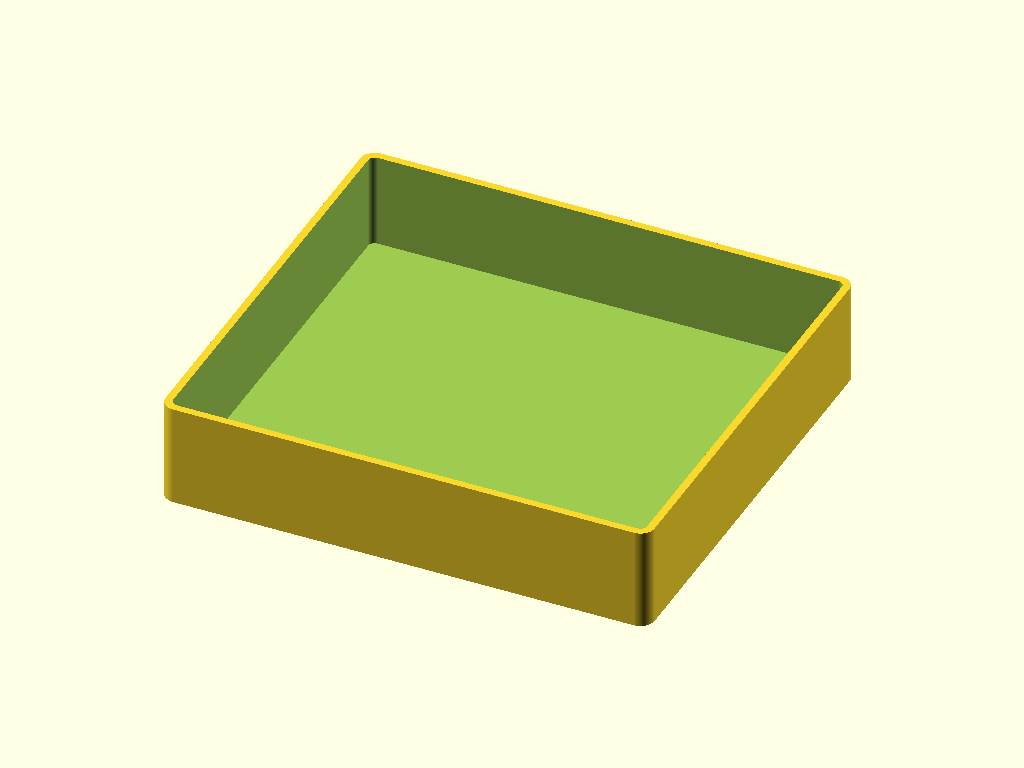
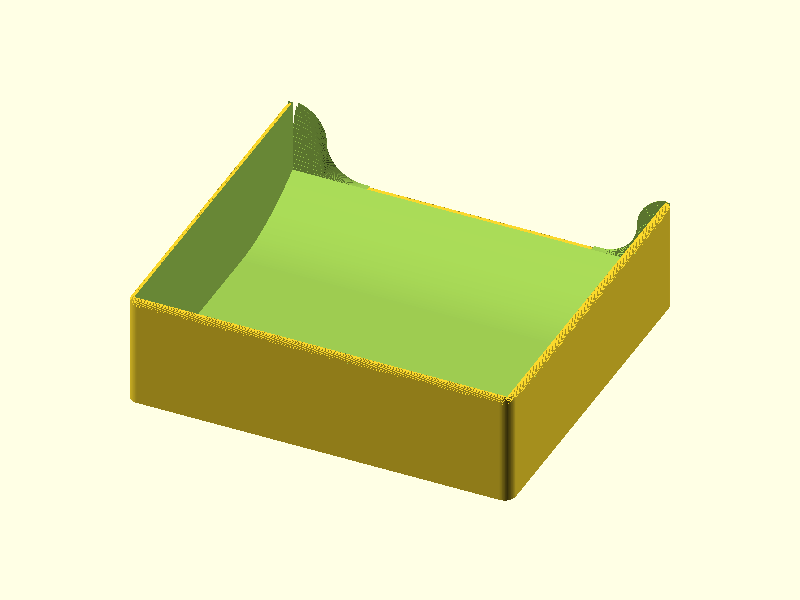
docs: ptouch-cradle v9+v10 — S-curve, 3D corner blend, r=wall_t cap
Doc updates to reflect the round-7 patch v9+v10 changes (commits
ea92875 → 4cece6e → 3601789):

- Tray render captions: r=20 single arc → S-curve (2× r=10 quarter
  arcs, tangent-continuous at both ends); top-edge fillet r=2 →
  r=1.6 (= wall_t, aligned with cradle's r=3 = its wall_t).
- ASCII assembly diagram updated for the new fillet schedule.
- Spec table row updated for the side-to-front fillet.
- Features section rewritten for the S-curve sweep + 3D corner
  blend (16-slab Y-stack interpolating inner z=10 → outer arc(x))
  and the r=wall_t cap with cradle-alignment rationale.
- Printability table updated: thin-wall row reframed as accepted
  cosmetic tradeoff (26 sub-mm slivers near corner peaks, slicer
  truncates as soft fades). Bridges row updated. Overhangs row
  updated (sloped wall top is 4.6° from horizontal, face-up).
- Geometry analysis paragraph rewritten for v10's known tradeoff.
- Slicer checklist item 3 updated.
- Print Settings supports row updated.
- Design Log: added v3-patch-v8 (corner tabs + slivers, commit
  4cece6e) and v3-patch-v9+v10 (S-curve + r=wall_t cap, commit
  3601789) entries with full geometric detail.
- Downloads: added modeler-notes-v9.md and v10.md links.
- Pipeline row: model agent now lists 7 rounds + 3 patches.
- README cradle-row description updated to mention S-curve sweeps,
  r=wall_t fillet alignment, and 2 test prints.

Re-staged tray PNG renders to docs/images/ptouch-cradle/ for the
[…]

Changed region(s): [[0.1562, 0.15, 0.8438, 0.84], [0.7188, 0.54, 0.8125, 0.69]]

diff --git a/docs/ptouch-cradle.md b/docs/ptouch-cradle.md
@@ -25,11 +25,11 @@ Quiet desk dock and label catch tray for the Brother PT-P750W label printer. Cle
 
 ### Tray — bare part
 
-![Front elevation of the catch tray showing the uniform 10mm low front wall, concave r=20 side fillet sweeps from the 30mm side walls down to the 10mm front wall, and the clean horizontal grab lip across the full width.](images/ptouch-cradle/tray-user-front.png)
-*Tray front elevation — uniform 10mm front wall, r=20 concave side fillets sweeping from side-wall top (z=30) to front-wall top (z=10). User reaches over the full-width low lip to retrieve labels.*
+![Front elevation of the catch tray showing the uniform 10mm low front wall, S-curve side fillet sweeps from the 30mm side walls down to the 10mm front wall, and the clean horizontal grab lip across the full width.](images/ptouch-cradle/tray-user-front.png)
+*Tray front elevation — uniform 10mm front wall with S-curve sweeps on each corner. Two tangent-continuous quarter-arcs (r=10 each) join at an inflection point — horizontal tangent at both ends so the curve blends without a kink against either the side-wall top or the front-wall flat top.*
 
-![Three-quarter view of the catch tray showing the back/side walls at full 30mm height, the concave side fillet scoops on each front corner, and the proportional form language matching the cradle.](images/ptouch-cradle/tray-user-front-threequarter.png)
-*Tray three-quarter — 30mm back/side walls, r=20 concave corner scoops, and r=2 top-edge fillet on back/sides (r=0.8 on front wall — restricted by 1.6mm wall thickness).*
+![Three-quarter view of the catch tray showing the back/side walls at full 30mm height, the S-curve corner sweeps, and the rolled top-edge fillet matching the cradle's design proportion.](images/ptouch-cradle/tray-user-front-threequarter.png)
+*Tray three-quarter — 30mm back/side walls, S-curve corner sweeps with 3D corner blend (outer face follows the curve up to z=30, inner face stays uniform at z=10 across full width — clean kanban lip from inside the bin). Top-edge fillet r=1.6 = wall_t (matches cradle's r=3 = its wall_t — same design proportion).*
 
 ## Design Overview
 
@@ -51,14 +51,14 @@ Two parts that assemble without fasteners or adhesive. The tray slides forward o
 
 TRAY (103.2 × 94.2 × 30mm, protrudes ~9mm above cradle wall):
 
-   ┌──────────────────────────┐  z=30mm back/side wall top (r=2 fillet)
+   ┌──────────────────────────┐  z=30mm back/side wall top (r=1.6 = wall_t fillet)
    │      ← 100mm →           │
    │      open top            │
    │      interior            │  1.6mm walls
    │                          │  1.6mm floor
    │  parabolic ramp at front │
    ╲──────────────────────────╱  z=10mm front wall top (r=0.8 fillet)
-    r=20 concave scoops both sides
+    S-curve sweeps both sides (2× r=10 quarter-arcs, tangent-continuous at both ends)
 ```
 
 **Install sequence:**
@@ -88,7 +88,7 @@ No chamfers anywhere. No decoration of any kind.
 | Cradle volume | ~136.6 cm³ | Mesh analysis |
 | Tray bounding box | 103.2 × 94.2 × 30mm | 5mm above 25mm cradle wall by design |
 | Tray front wall height | 10mm | Uniform across full width |
-| Tray side-to-front fillet | r=20 concave | Single quarter-arc per side, no intermediate sections |
+| Tray side-to-front fillet | S-curve, 2× r=10 quarter-arcs | Tangent-continuous at both ends (horizontal tangent at z=30 AND z=10) — joined at inflection point (10, 20). Outer face follows the curve; inner face stays at z=10 across full width via 16-slab Y-stack 3D corner blend. |
 | Tray interior ramp | parabolic z(y) = 1.6 + 8.4·((y−62.6)/30)² | Tangent to floor at back, terminates at z=10 at front |
 | Tray volume | ~38.9 cm³ | Mesh analysis |
 | Combined volume | ~175.5 cm³ | |
@@ -113,9 +113,9 @@ No chamfers anywhere. No decoration of any kind.
 
 **Uniform 10mm front wall** — Flat at z=10 across the full width. The grab feature: user reaches over anywhere along the width. Tray interior cavity accessible above the 10mm front lip.
 
-**r=20 concave side fillet sweeps** — ONE quarter-arc per side (r=20, matching the 20mm height drop from z=30 to z=10). Sweeps continuously from side-wall top down to front-wall top. Single curve, single radius — no intermediate flat sections, no transition arcs, no sharp corner intersections.
+**S-curve side fillet sweeps** — TWO tangent-continuous quarter-arcs per side (r=10 each, total horizontal extent 20mm matching the 20mm height drop from z=30 to z=10). Joined at an inflection point with vertical tangent. Horizontal tangent at z=30 (matches side-wall top) AND horizontal tangent at z=10 (matches front-wall flat top) — no kink at either end. Outer face follows the S-curve; inner face stays uniform at z=10 across the full width via a 16-slab Y-stack that linearly interpolates between OUTER and INNER profiles. The wall top in the corner zones slopes from z=10 (inner) to arc(x) (outer) over the 1.6mm wall depth — reads as a 3D corner blend, not a 2D extrusion.
 
-**Top-edge fillets** — r=2 continuous fillet on back and side wall tops (z=30), rolled inward via slab stack. r=0.8 fillet on front wall top (z=10) — smaller because the 1.6mm front wall is too thin for r=2 without offset collapse. Both fillet radii are engineered deviations with documented rationale.
+**Top-edge fillets** — r=1.6 = wall_t continuous fillet on back and side wall tops (z=30). The cap rolls cleanly from the outer face to a point at the inner face — same construction principle as the cradle's r=3 = its wall_t. Same design proportion across the assembly, different absolute radii because the walls differ (cradle 3mm, tray 1.6mm). r=0.8 fillet on front wall top (z=10) — half wall_t for the thin front lip, keeps it soft without competing with the larger back/sides cap.
 
 **Interior parabolic floor ramp** — z(y) = 1.6 + 8.4 · ((y − 62.6) / 30)². Tangent to the flat floor at the back (slope=0 at y=62.6), steepens toward the front, terminates at z=10 at the front wall interior face. Concave from cavity side — a finger sliding forward gets a smooth gradual incline. Self-supporting in face-up print orientation (always slopes up-and-forward, never overhangs).
 
@@ -140,24 +140,24 @@ Both parts pass all printability checks. Zero real bridge spans in either part. 
 | Transitions (cradle) | 4/4 PASS | Base→wall (z=4mm): false-positive flag from analyzer measuring open pocket void |
 | Transitions (tray) | 4/4 PASS | Floor, walls, front-wall terminus, top fillets |
 | Overhangs (cradle) | PASS | Vertical walls throughout; flush base; no overhangs above z=0 |
-| Overhangs (tray) | PASS (marginal at r=20 fillet tip) | z=24–30mm fillet corner technically >45° but backed by side-wall material; cosmetic quality impact only |
+| Overhangs (tray) | PASS — sloped wall top is face-up | The 3D corner blend's wall-top slope is 4.6° from horizontal (well below 45° max); prints face-up cleanly |
 | Bridges (cradle) | PASS | 3 analyzer flags are false positives (open pocket voids) |
-| Bridges (tray) | PASS | Max span 1.21mm — ramp arc-sampling artifacts, not real bridges |
-| Thin walls | PASS (1 marginal) | Tray r=20 fillet corner: 1.026mm minimum at z=10–26mm — geometric artifact backed by full side-wall material |
+| Bridges (tray) | PASS | 1 false-positive flag from the trimesh bridge detector confused by the corner-column slope; visually inspected, no real unsupported bridges |
+| Thin walls | ACCEPTED TRADEOFF | 26 sub-mm slivers near the corner-column outer-edge peaks (z>22mm) and at the cap apex (z>29mm). Geometrically forced at wall_t=1.6mm — the 3D corner blend's outer face rises to z=30 while the inner stays at z=10, producing sub-mm cross-sections near the peak. Slicer prints these as a soft fade (1–2 perimeter taper) rather than sharp peaks; cosmetic effect only, not structural. |
 | Slicer | N/A | PrusaSlicer not installed |
 
 ### Geometry Analysis
 
 Cradle: 125 layers at 0.2mm, watertight, all transitions PASS. Tray: 150 layers, watertight. All bridge FAIL flags in both parts are false positives from the cross-section analyzer measuring across intentionally open pockets or arc-sampling artifacts on curved surfaces.
 
-**One marginal finding:** the r=20 concave fillet corner on the tray measures 1.026–1.194mm wall thickness at z=10–26mm — below the 1.2mm nominal spec. Root cause: geometric artifact of the angled fillet intersection at the outer corner. The continuous 1.6mm side wall provides full backing; the slicer will generate 2–3 perimeters in this zone. Not a print blocker; flagged for test print verification.
+**Accepted printability tradeoff:** the post-v9 3D corner blend produces sub-mm slivers near the outer-edge peaks of the S-curve sweep (corner columns at z>22mm) and at the cap apex (z>29mm). This is geometrically forced by simultaneously holding (1) outer face rising to z=ext_h=30 at the corner, (2) inner face uniform at z=front_wall_h=10, and (3) wall_t=1.6mm — any continuous transition with a 20mm Z-drop over 1.6mm Y produces sub-mm cross-sections near the peak. The slicer truncates the unprintable peak by ~1–2mm vertical, producing a softer corner in print rather than a sharp peak — the user accepted this as a cosmetic preference. No structural issue.
 
 ### Slicer Analysis
 
 Slicer analysis not available — PrusaSlicer not installed. Key items to verify when slicing:
 1. Confirm no support material is added to either part.
 2. Confirm cradle bridge flags (z=4.1, z=22.1, z=22.9) do not trigger support generation — these are open interior voids.
-3. Confirm tray r=20 fillet corner zone (z=10–26mm) generates adequate perimeter count (minimum 2 perimeters).
+3. Inspect tray corner-column outer peaks — slicer should taper the unprintable sub-mm slivers as a soft fade (~1–2mm vertical truncation) rather than raising errors. This is the expected accepted-tradeoff behavior.
 4. Verify cradle is centered in Y (254.9mm vs 256mm build volume = 1.1mm margin — use auto-center in Bambu Studio).
 
 ## Print Settings
@@ -181,7 +181,7 @@ Slicer analysis not available — PrusaSlicer not installed. Key items to verify
 | Material | PLA |
 | Layer height | 0.2mm |
 | Infill | 15–20% — 1.6mm walls are 4 perimeters at 0.4mm nozzle, effectively solid |
-| Supports | None required — parabolic ramp self-supporting; r=20 concave scoops build from lower z to higher z in X |
+| Supports | None required — parabolic ramp self-supporting; S-curve sweeps build from lower z to higher z in X (no overhangs); 3D corner-blend wall top slopes 4.6° from horizontal (face-up, well below 45° max) |
 
 ## BOM
 
@@ -194,9 +194,9 @@ No fasteners, adhesive, or hardware required. Silicone bump feet (3–4mm diamet
 
 ## Design Log
 
-**v3 (this version) — 7-round ID critique loop, 2026-04-18 to 2026-04-26**
+**v3 (this version) — 7-round ID critique loop + 2 post-ship patches, 2026-04-18 to 2026-04-26**
 
-The v3 design went through 7 rounds of industrial-design critique and revision, documented in full at `designs/ptouch-cradle/id/conversation-log.md` and individual modeler notes v1–v7.
+The v3 design went through 7 rounds of industrial-design critique and revision, documented in full at `designs/ptouch-cradle/id/conversation-log.md` and individual modeler notes v1–v10.
 
 Round 1–2 (owl direction): critique identified the shipped v2 owl tufts as cat-ear shaped; round 1 attempted a back-panel relocation. Round 2 surfaced a structural failure — the facial disc at z=90 is behind the printer in actual use (printer is 143mm tall; the face was invisible with the printer installed). The use-state render requirement was codified into the pipeline.
 
@@ -206,7 +206,21 @@ Rounds 4–7 iterated within v3 minimalism:
 - Round 4: tray holder wrap made continuous (slot walls 3.05mm), top-edge fillets added, tray closed-bin architecture established with scoop lip.
 - Round 5: feet removed (flush base), cable notch removed (plug is above wall height), tray interior ramp established (concave parabolic), tray height raised to 30mm.
 - Round 6: variable-height front wall (corners z=18, center z=10) replaced the round-5 boss+indent grab feature; concave ramp orientation corrected.
-- Round 7: round-6 variable-height front wall simplified — corner sections ("top bars") and transition arcs eliminated. Single uniform z=10 front wall + ONE r=20 concave fillet per side. User signed off.
+- Round 7: round-6 variable-height front wall simplified — corner sections ("top bars") and transition arcs eliminated. Single uniform z=10 front wall + ONE r=20 concave fillet per side. Initial user sign-off, shipped at `31a2e27`.
+
+**v3 patch v8 — corner tab + sliver fixes (commit `4cece6e`)**
+
+Post-ship critique surfaced (a) "tab" tips at the upper corners of the front-wall scoop where the arc met the inner face of the side wall instead of the outer edge, and (b) sub-mm slivers at z≈29.9 near the front corners caused by the back/sides cap stack inset exceeding the wall thickness. Fixed by extending the arc to start at the OUTER edge (tangent horizontal at z=30 — flush with side-wall top) and clipping `back_sides_mask` to y ≤ ext_d - wall_t so the cap stack doesn't operate in the front-wall slab corner column.
+
+**v3 patch v9+v10 — S-curve, 3D corner blend, r=wall_t cap (commit `3601789`)**
+
+Critique on patch v8 surfaced three new issues with reference images: (1) the single quarter-arc had a vertical-tangent kink at z=10 against the flat front-wall top — design intent was a smooth continuous sweep tangent to BOTH endpoints; (2) a "blade" of material from the ramp top up to arc(x) was visible inside the bin at the corners; (3) the back/sides cap construction at r=2 + clamp produced a flat plateau, breaking the design proportion intended to align with the cradle's r=3 cap.
+
+Patch v9 fixed (1) with an S-curve (two tangent-continuous quarter-arcs r=10 each, joined at an inflection point) and (2) with a 3D corner blend implemented as a 16-slab Y-stack interpolating between an INNER profile (flat top at z=10) and an OUTER profile (the S-curve). Inside the bin now reads as a clean uniform z=10 lip; outside reads as a smooth S-curve sweep with no kinks.
+
+Patch v10 aligned the top-edge fillet with the cradle by proportion: tray r=2 → r=1.6 (= wall_t), matching the cradle's r=3 (= its wall_t). Cap rolls cleanly from outer face to inner-face apex on both parts — same design language across the assembly. Pulled `back_sides_mask` y-extent back by 0.05mm to decouple coincident CSG planes for clean watertight manifold.
+
+Accepted tradeoff at patch v10: 26 sub-mm slivers near the corner-column peaks (geometrically forced by holding wall_t=1.6mm + outer-rises-to-30 + inner-stays-at-10). User accepted: "soft fades instead of sharp peaks." Slicer truncates the unprintable peaks ~1–2mm in print, producing softer corners than the renders show.
 
 **v2 (prior) — shipped commit `90dd34a`**
 
@@ -252,7 +266,9 @@ Two small fitment test pieces verify the load-bearing dimensions before committi
 | [`cradle.scad`](../designs/ptouch-cradle/cradle.scad) | Cradle parametric source |
 | [`tray.scad`](../designs/ptouch-cradle/tray.scad) | Tray parametric source |
 | [`spec.json`](../designs/ptouch-cradle/spec.json) | Validation spec |
-| [`modeling-report.json`](../designs/ptouch-cradle/output/modeling-report.json) | Feature inventory (round 7) |
+| [`modeling-report.json`](../designs/ptouch-cradle/output/modeling-report.json) | Feature inventory (round 7 + patch v9 update) |
+| [`id/modeler-notes-v9.md`](../designs/ptouch-cradle/id/modeler-notes-v9.md) | Patch v9 — S-curve sweep + 3D corner blend + cap step bump |
+| [`id/modeler-notes-v10.md`](../designs/ptouch-cradle/id/modeler-notes-v10.md) | Patch v10 — r=wall_t cap alignment with cradle + watertight resolution |
 | [`review-printability.md`](../designs/ptouch-cradle/output/review-printability.md) | Full printability review |
 | [`review-fitment.json`](../designs/ptouch-cradle/output/review-fitment.json) | Fitment review — all clearances PASS |
 | [`id/brief.md`](../designs/ptouch-cradle/id/brief.md) | ID brief — v3 minimalism direction |
@@ -264,7 +280,7 @@ Two small fitment test pieces verify the load-bearing dimensions before committi
 |-------|-------|--------|
 | Spec | spec-writer | 2 parts, 5 mating interfaces, 8 test print candidates |
 | ID | id-designer | 7-round critique loop — rounds 1–2 owl, round 3 pivot to v3 minimalism, rounds 4–7 refinement |
-| Model | modeler | PASS (7 rounds: v3 → v4 tray wrap + fillets → v5 closed bin + ramp → v6 variable front wall → v7 simplified uniform front wall) |
+| Model | modeler | PASS (7 rounds + 3 patches: v3 → v4 tray wrap + fillets → v5 closed bin + ramp → v6 variable front wall → v7 simplified uniform front wall → v8 corner tabs + slivers → v9 S-curve + 3D corner blend → v10 r=wall_t cap aligned with cradle) |
 | Geometry | geometry-analyzer | Cradle: watertight, all transitions PASS. Tray: watertight, 1 marginal fillet corner |
 | Print review | print-reviewer | 7/7 PASS cradle, 4/4 PASS tray. 1 marginal (tray fillet corner 1.026mm). No blockers. |
 | Fit review | fit-reviewer | PASS — 0.0mm³ interference, all clearances confirmed analytically |

diff --git a/README.md b/README.md
@@ -18,7 +18,7 @@ This is an AI-native parametric modeling pipeline built on [Claude Code](https:/
 
 | Design | Preview | Arch | Description | STL |
 |--------|---------|:----:|-------------|-----|
-| [P-touch Cradle](docs/ptouch-cradle.md) | ![Quiet desk dock for the Brother PT-P750W — low 25mm bathtub cradle with removable label catch tray, Muji-Rams minimalism](docs/images/ptouch-cradle/cradle-user-front-threequarter.png) | v4 | Quiet two-part desk dock for Brother PT-P750W. Symmetric 25mm bathtub cradle holds printer; removable tray catches auto-cut labels. No decoration — clean fillets, flush base, v3 minimalism. 1 test print for tray-slot fit. | [Cradle](designs/ptouch-cradle/output/cradle.stl) · [Tray](designs/ptouch-cradle/output/tray.stl) |
+| [P-touch Cradle](docs/ptouch-cradle.md) | ![Quiet desk dock for the Brother PT-P750W — low 25mm bathtub cradle with removable label catch tray, Muji-Rams minimalism](docs/images/ptouch-cradle/cradle-user-front-threequarter.png) | v4 | Quiet two-part desk dock for Brother PT-P750W. Symmetric 25mm bathtub cradle holds printer; removable tray catches auto-cut labels. No decoration — clean fillets, S-curve corner sweeps on the tray, top-edge fillet r=wall_t aligned across both parts. 2 test prints (tray-slot fit + printer-pocket U-fit). | [Cradle](designs/ptouch-cradle/output/cradle.stl) · [Tray](designs/ptouch-cradle/output/tray.stl) |
 | [Glitter Wizard Hat](docs/glitter-wizard-hat.md) | ![Conical wizard hat cap for vintage lava lamps with single row of alternating star and moon cutouts near the base](docs/images/glitter-wizard-hat/gwh-large-iso.png) | v4.1 | Replacement cap for vintage Glitter Wizard lava lamps. Hollow cone with star/moon cutouts, retention lip for bottle neck fit. Two sizes: large (114.3 mm) and small (95 mm). | [Large](designs/glitter-wizard-hat/output/glitter-wizard-hat-large.stl) · [Small](designs/glitter-wizard-hat/output/glitter-wizard-hat-small.stl) |
 | [Caliper-Test Gridfinity Bin](docs/caliper-test.md) | ![Gridfinity 2x1 bin with two-stage caliper pocket — wide display cavity at bottom, narrow beam slot at top, 45-degree finger-relief chamfer at opening](docs/images/caliper-test/caliper-test-iso.png) | v4 | Gridfinity 2×1 12u bin for a 6-inch digital caliper. Two-stage contoured pocket seats the display body; the beam extends above the rim for grab-and-go access. 4 test prints for fitment verification. | [STL](gridfinity-bins/designs/caliper-test/output/caliper-test.stl) |
 | [Waffle Caulk Spudger](docs/waffle-caulk-spudger.md) | ![Caulk spreader tool for waffle-grid bin lid channels — convex spreader tip, taper zone, and ergonomic handle](docs/images/waffle-caulk-spudger/waffle-caulk-spudger-iso.png) | v4 | Handheld caulk spreading tool for 9.4 mm waffle-grid channels. Convex tip profiles a smooth bead for adapter bonding. No supports, prints flat. | [STL](designs/waffle-caulk-spudger/output/waffle-caulk-spudger.stl) |
